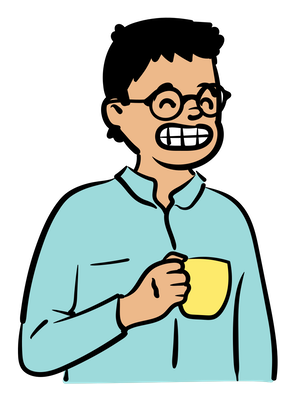
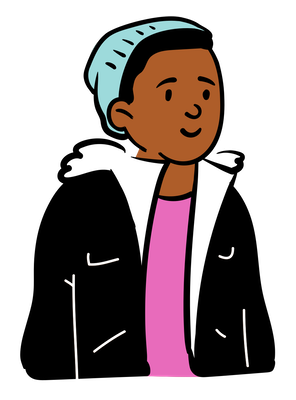
modificaciones personales

diff --git a/index.html b/index.html
@@ -33,21 +33,18 @@
     <div class="half-section">
      <div class="avatar-container">
       <img src="./assets/avatar.png" alt="">
-      <h3>"Yo, disfrutando de mi café..."</h3>
+      <h3>"Yo, aguantando el frío..."</h3>
      </div>
     </div>
     <div class="half-section text-section">
       <div class="introduction">
-        <h1 class="title">Hola!, <br> Soy Nombre y Apellido </h1>
+        <h1 class="title">Hola!, <br> Soy Fabián Choque </h1>
         <ul class="socials">
-          <li><a class="socials-icon" href=""><i class="bi bi-github"></i></a></li>
-          <li><a class="socials-icon" href=""><i class="bi bi-linkedin"></i></a></li>
-          <li><a class="socials-icon" href=""><i class="bi bi-twitter"></i></a></li>
-          <li><a class="socials-icon" href=""><i class="bi bi-facebook"></i></a></li>
-          <li><a class="socials-icon" href=""><i class="bi bi-instagram"></i></a></li>
+          <li><a class="socials-icon" href="https://github.com/fchoque045" target="_blank"><i class="bi bi-github"></i></a></li>
+          <li><a class="socials-icon" href="www.linkedin.com/in/fabián-choque-808a22223" target="_blank"><i class="bi bi-linkedin"></i></a></li>
         </ul>
   
-        <p class="description">+15 años de experiencia trabajando en aplicaciones de alta escala. <br> Déjame contarte un poco de mí, sigue deslizando!</p>
+        <p class="description">Déjame contarte un poco de mí, sigue deslizando!</p>
       </div>
 
     </div>
@@ -56,18 +53,18 @@
   <section id="about" class="content">
     <aside class="half-section text-section">
       <p>
-        Lorem ipsum dolor sit amet consectetur adipisicing elit. Autem sint porro reiciendis debitis et harum animi rem fugit eaque. Officia maxime id ipsum culpa temporibus dolore saepe quos quasi debitis.
-        Lorem ipsum dolor sit amet consectetur adipisicing elit. Sapiente quisquam rem quam, corporis itaque dolor deserunt libero doloremque quibusdam repellat quidem doloribus quia eos officia placeat, quasi, odit repellendus ipsa.
+      Soy estudiante de la carrera de Ingeniería en Informática en la Universidad Nacional de Jujuy.
+      Tengo 25 años y como pasatiempos me gusta leer, hacer ejercicio, juntarme con amigos y disfrutar la vida.
       </p>
       <p>
-        Lorem ipsum dolor sit amet consectetur adipisicing elit. Repellendus dolore esse a officiis autem sint harum quos rerum neque aut, totam itaque iure perferendis vitae reiciendis praesentium corporis saepe consectetur.
-        Lorem ipsum dolor sit amet consectetur adipisicing elit. Obcaecati veniam, deleniti rem, neque ipsum eos ullam distinctio, atque harum perferendis itaque ipsam labore voluptatibus. Maiores provident perspiciatis sunt mollitia impedit.
+        Busco mejorar mis habilidades como desarrollador de software y seguir creciendo profesionalmente para el día de mañana conseguir un trabajo del cual me sienta orgulloso.
+        Para ello trato de fijar metas a corto y largo plazo para conseguir mis objetivos.
       </p>
       <p>
-        Lorem ipsum dolor sit amet consectetur adipisicing elit. Repellendus dolore esse a officiis autem sint harum quos rerum neque aut, totam itaque iure perferendis vitae reiciendis praesentium corporis saepe consectetur.
-        Lorem ipsum dolor sit amet consectetur adipisicing elit. Obcaecati veniam, deleniti rem, neque ipsum eos ullam distinctio, atque harum perferendis itaque ipsam labore voluptatibus. Maiores provident perspiciatis sunt mollitia impedit.
+        Espero conocer gente nueva y trabajar en equipo para ayudarnos. Un saludo a todos  
       </p>
-    </aside>
+       
+  </aside>
     <aside class="half-section title-section">
       <h2>Un poco sobre mí</h2>
     </aside>
@@ -80,31 +77,18 @@
     <aside class="half-section text-section">
         <ul class="project-list">
           <li>
-            <h3>Proyecto 1</h3>
+            <h3>Repositorios Academicos</h3>
             <p>
-              Lorem ipsum dolor sit amet, consectetur adipisicing elit.
-              Quisquam, quidem, quisquam.
-              Lorem ipsum dolor sit amet consectetur adipisicing elit. Impedit architecto sapiente itaque eius voluptate! Nisi voluptas explicabo quaerat? Alias perspiciatis vel praesentium adipisci impedit? Commodi harum repellat eum beatae dolorum.
+              Sistema web para la recolección de papers academicos dentro de repositorios ofrecidos por la Universidad Nacional de La Plata y la Pontificia Universidad Católica Argentina usando tecnicas de Web Scrapping codificados en el lenguaje de Python junto con el framework Django
             </p>
-            <a class="project-link" href="#"><i class="bi bi-github"></i> Ver más</a>
+            <a class="project-link" href="https://github.com/fchoque045/TP_FINAL_RAIN2021/tree/master" target="_blank"><i class="bi bi-github"></i> Ver más</a>
           </li>
           <li>
-            <h3>Proyecto 2</h3>
+            <h3>Sindicato SUTHER JUJUY</h3>
             <p>
-              Lorem ipsum dolor sit amet, consectetur adipisicing elit.
-              Quisquam, quidem, quisquam.
-              Lorem ipsum dolor sit amet consectetur adipisicing elit. Impedit architecto sapiente itaque eius voluptate! Nisi voluptas explicabo quaerat? Alias perspiciatis vel praesentium adipisci impedit? Commodi harum repellat eum beatae dolorum.
+              Sistema web para la gestión de pagos de las cuotas sindicales ofrecidas a los Consorcios de propiedad Horizontal usando Python y Angular
             </p>
-            <a class="project-link" href="#"><i class="bi bi-github"></i> Ver más</a>
-          </li>
-          <li>
-            <h3>Proyecto 3</h3>
-            <p>
-              Lorem ipsum dolor sit amet, consectetur adipisicing elit.
-              Quisquam, quidem, quisquam.
-              Lorem ipsum dolor sit amet consectetur adipisicing elit. Impedit architecto sapiente itaque eius voluptate! Nisi voluptas explicabo quaerat? Alias perspiciatis vel praesentium adipisci impedit? Commodi harum repellat eum beatae dolorum.
-            </p>
-            <a class="project-link" href="#"><i class="bi bi-github"></i> Ver más</a>
+            <a class="project-link" href="https://github.com/fchoque045" target="_blank"><i class="bi bi-github"></i> Ver más</a>
           </li>
         </ul>
     </aside>
@@ -128,16 +112,13 @@
   <footer>
     <div class="footer-section-container">
       <ul class="socials">
-        <li><a class="socials-icon" href=""> <i class="bi bi-github"></i></a></li>
-        <li><a class="socials-icon" href=""><i class="bi bi-linkedin"></i></a></li>
-        <li><a class="socials-icon" href=""><i class="bi bi-twitter"></i></a></li>
-        <li><a class="socials-icon" href=""><i class="bi bi-facebook"></i></a></li>
-        <li><a class="socials-icon" href=""><i class="bi bi-instagram"></i></a></li>
+        <li><a class="socials-icon" href="https://github.com/fchoque045" target="_blank"> <i class="bi bi-github"></i></a></li>
+        <li><a class="socials-icon" href="www.linkedin.com/in/fabián-choque-808a22223" target="_blank"><i class="bi bi-linkedin"></i></a></li>
       </ul>
     </div>
       <div class="footer-section-container">
         <p>
-          &copy; 2022 - <a class="footer-link" href="https://www.linkedin.com">Nombre y Apellido</a>
+          &copy; 2022 - <a class="footer-link" href="www.linkedin.com/in/fabián-choque-808a22223">Fabián Choque</a>
         </p>
       </div>
   </footer>

diff --git a/styles.css b/styles.css
@@ -1,8 +1,8 @@
-@import url('https://fonts.googleapis.com/css2?family=Manrope:wght@200;400;700;800&display=swap');
+@import url('https://fonts.googleapis.com/css2?family=Roboto:wght@300;400;700;900&display=swap');
 
 :root {
-  --primary-color: #3282B8;
-  --primary-color-dark: #0F4C75;
+  --primary-color: #18978F;
+  --primary-color-dark: #3F4E4F; 
   --accent-color: #FFF8F0;
 }
 
@@ -13,7 +13,7 @@ html {
 body {
   margin: 0;
   padding: 0;
-  font-family: 'Manrope', sans-serif;
+  font-family: 'Roboto', sans-serif;
 }
 
 .navbar {
@@ -87,7 +87,7 @@ body {
 }
 
 .avatar-container img {
-  height: 700px;
+  height: 500px;
   width: auto;
 }
 

diff --git a/README.md b/README.md
@@ -3,7 +3,7 @@
 :package: **Módulo 1: Entorno de trabajo y control de versiones**
 
 ## Introducción
-Hola! :smile: Éste es el primer proyecto con el que daremos nuestros primeros pasos en el desarrollo de software. Nuestro camino iniciará con Visual Studio Code, Git y Github, a lo largo de este módulo nos familiarizaremos con este entorno de trabajo. Recuerda que pronto armaremos equipos de desarrollo así que te recomendamos que te vayas preparando. Tú y tu equipo experimentarán situaciones donde deberán coordinarse y cooperar para tener éxito, esto te dará un pequeño vistazo de lo que hay allí afuera.
+Hola! :+1: Éste es el primer proyecto con el que daremos nuestros primeros pasos en el desarrollo de software. Nuestro camino iniciará con Visual Studio Code, Git y Github, a lo largo de este módulo nos familiarizaremos con este entorno de trabajo. Recuerda que pronto armaremos equipos de desarrollo así que te recomendamos que te vayas preparando. Tú y tu equipo experimentarán situaciones donde deberán coordinarse y cooperar para tener éxito, esto te dará un pequeño vistazo de lo que hay allí afuera.
 
 Sin más que decir, te deseamos éxitos en este camino de formación! :clap:
 
@@ -26,3 +26,9 @@ Si tienes alguna duda o problema que no se puede resolver en el proyecto te anim
 ## Recursos
 
 Si te interesa saber más del avatar utilizado en este proyecto, puede ver [Open Peeps](https://www.openpeeps.com) donde podrás personalizar y descargar tu propio avatar con el mismo estilo y gratis.
+
+Para modificar las fuentes se recomienda visitar la pagina de [Google Font](https://fonts.google.com/) y elegir la que mas te guste
+
+Para previsualizar el archivo markdown en vscode se puede instalar las siguientes extensiones: 
+1. [Markdown preview github styles](hhttps://marketplace.visualstudio.com/items?itemName=bierner.markdown-preview-github-styles)
+2. [Markdown emoji](https://marketplace.visualstudio.com/items?itemName=bierner.markdown-emoji)
